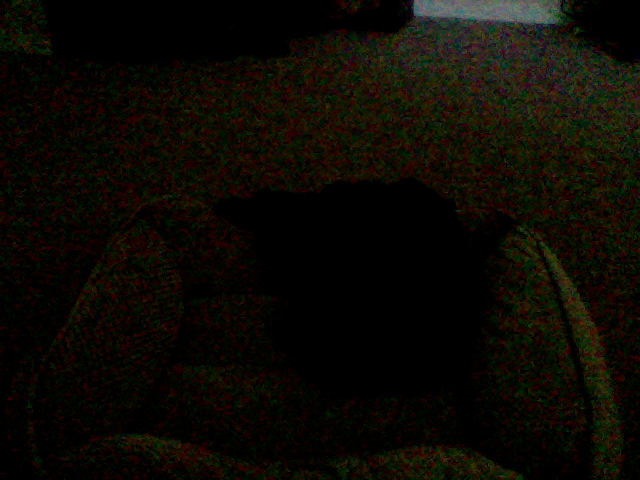
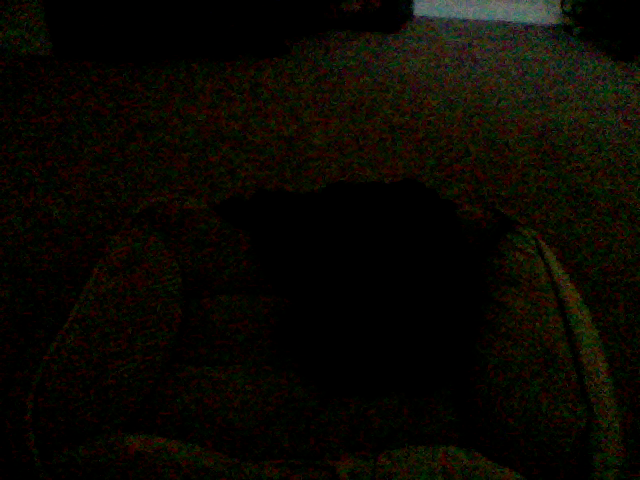
update at Month05Day08Time19:24

diff --git a/index.html b/index.html
@@ -39,7 +39,7 @@
       <!-- Example row of columns -->
       <div class="row">
         <div class="col-md-4">
-	<p>This picture was updated at Month05Day08Time19:23</p>
+	<p>This picture was updated at Month05Day08Time19:24</p>
 		<img src="3_pic.png" />
         </div>
       </div>
